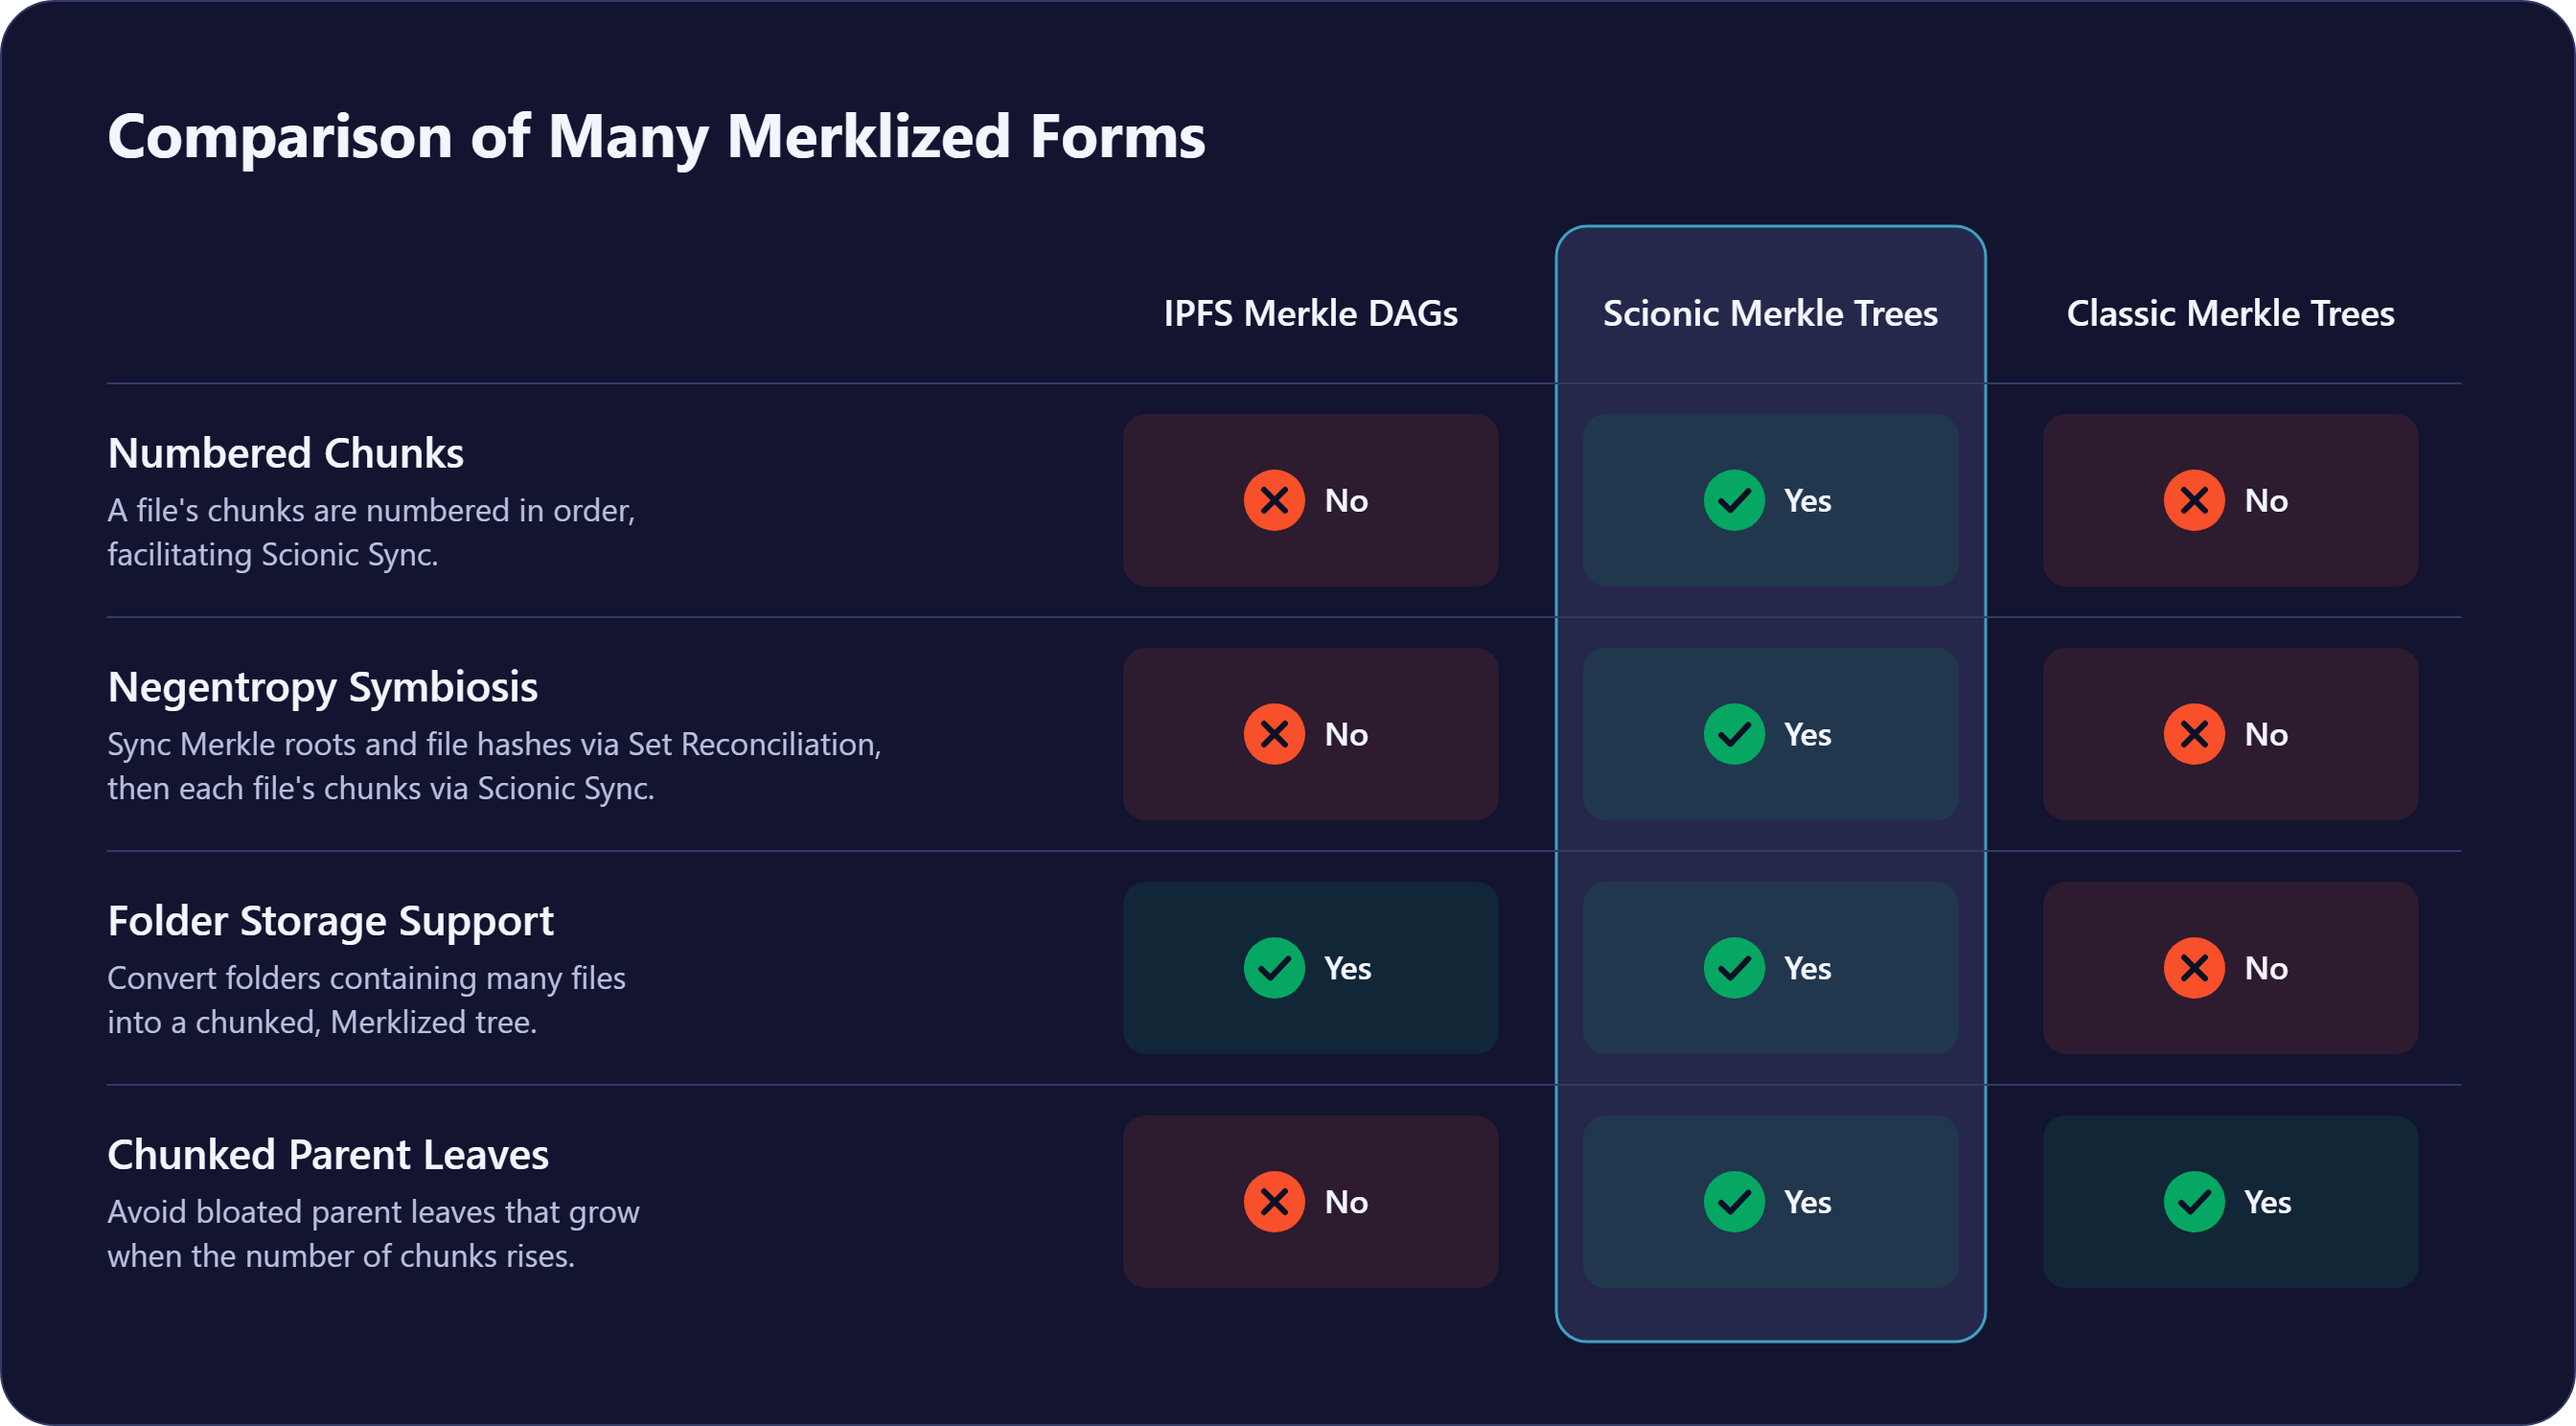
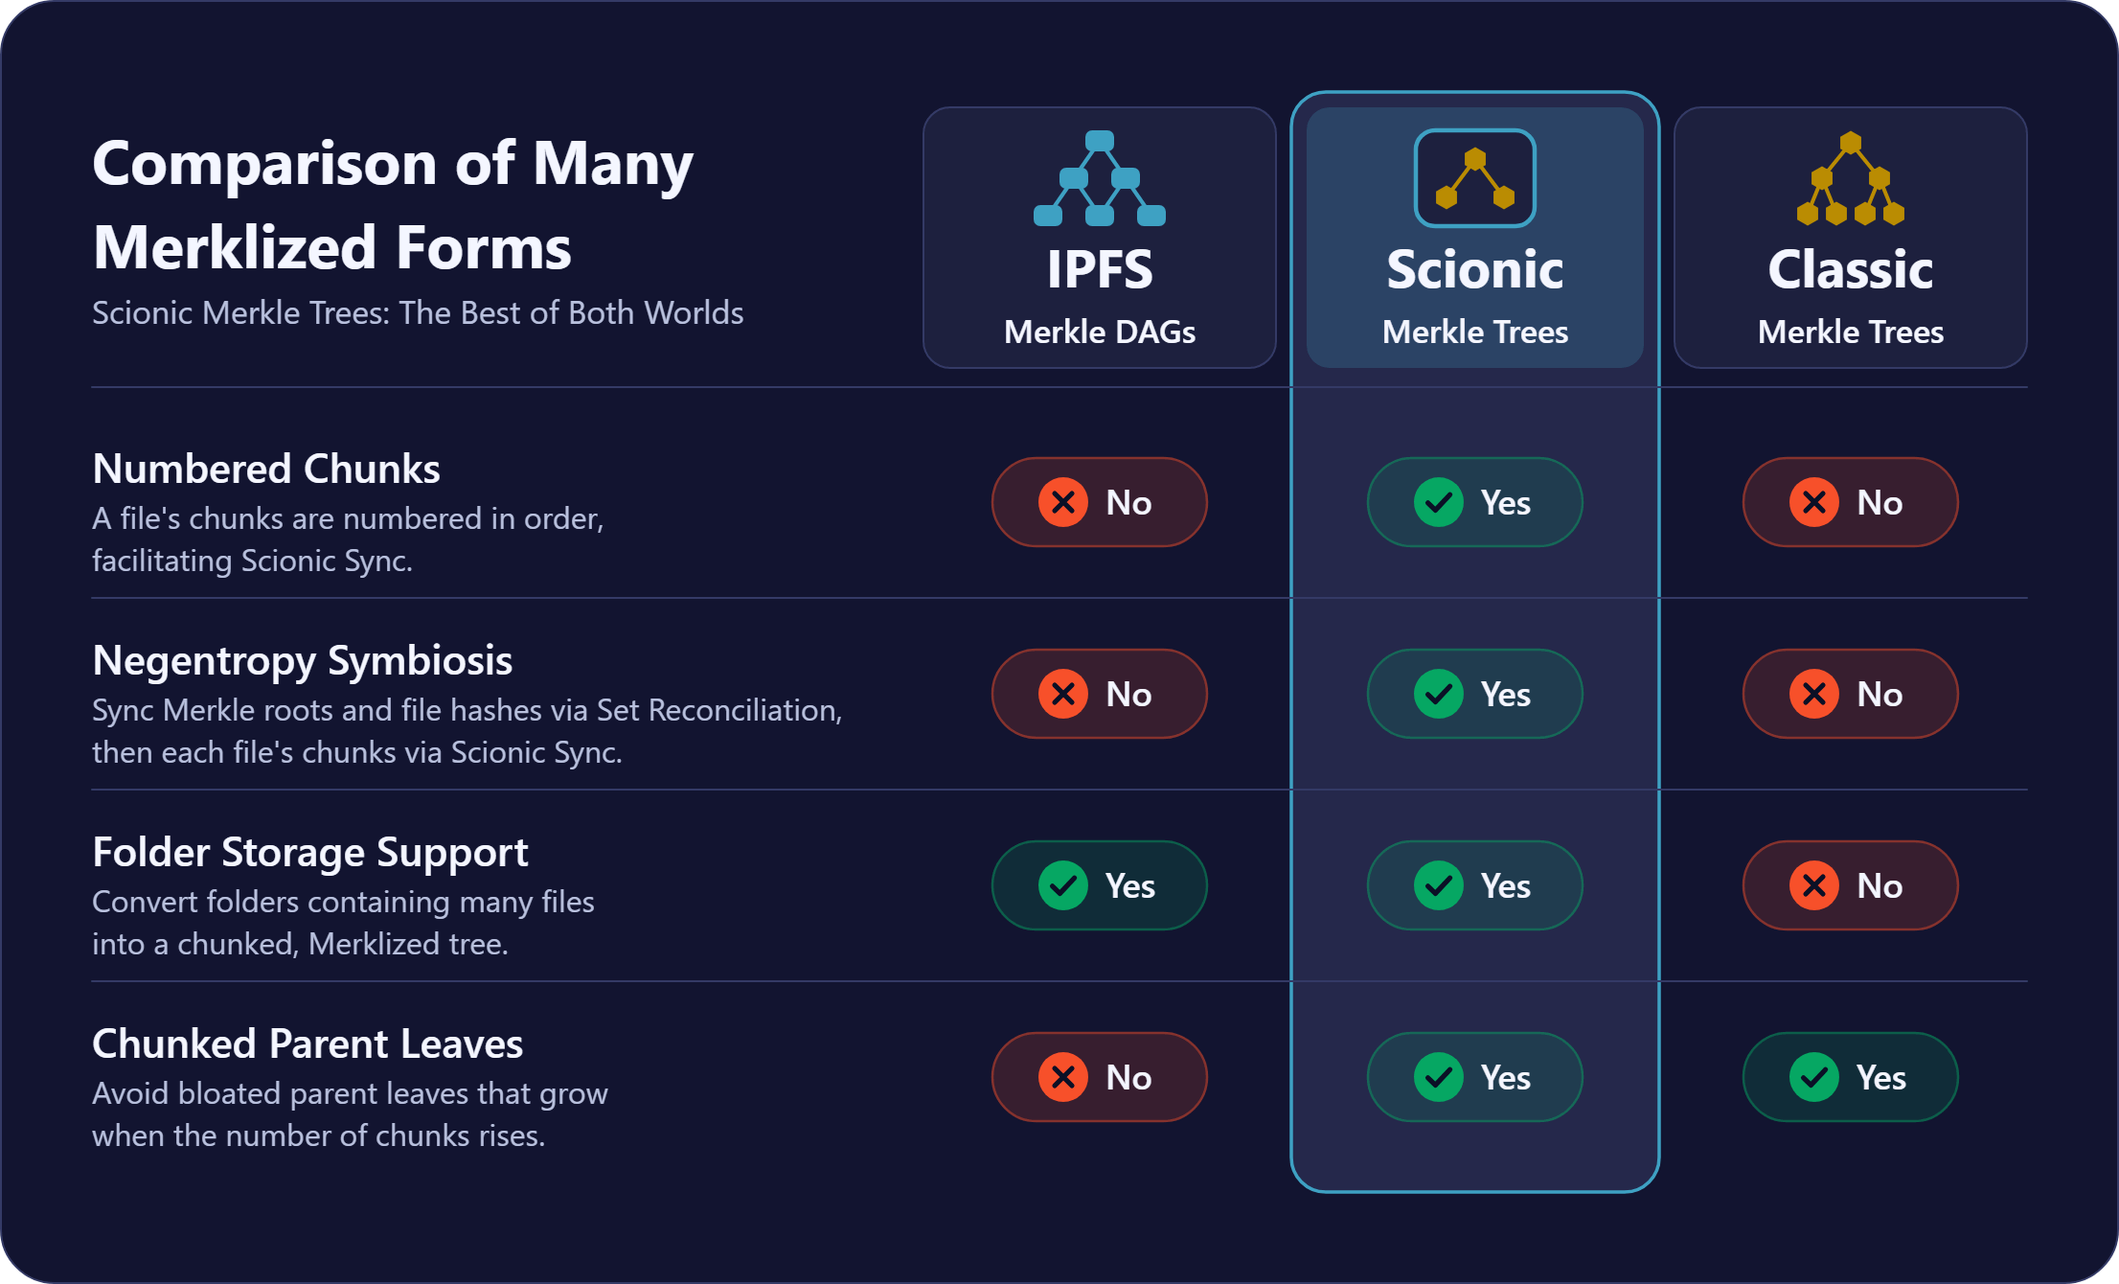
docs: the table says the names of the three forms large, and fills its picture
The names of the three forms were the smallest headings in the table, and
the table stood loose in a picture wider than it needed.

- The name of a form is the largest thing in its column. The word that
  tells it from the other two is written large, over the rest of its
  name: IPFS over Merkle DAGs, Scionic and Classic over Merkle Trees.
- Each form has a small picture of itself, in the colours of the two tree
  pictures: boxes that link to boxes, a Classic Merkle tree, and for a
  Scionic Merkle Tree a box with a Classic Merkle tree inside it.
- The title stands in the corner that a table leaves empty, beside the
  names of the forms, over the README's own words for the comparison:
  "Scionic Merkle Trees: The Best of Both Worlds".
- A mark is a badge that is no larger than what it says.
- The picture is 1,106 units wide where it was 1,344, so at the width of a
  page its text is a fifth larger, and the names of the forms nearly
  twice as large.

What the rows say, and which form has what, is as it was.

diff --git a/docs/pictures/README.md b/docs/pictures/README.md
@@ -38,9 +38,11 @@ Everything a picture says is at the top of `pictures.mjs` or in the function tha
 - **No list in these pictures has fewer than three items.** The tree over two items is a single fork, which does not look like a tree. So the program refuses a folder with fewer than three entries, and a file with fewer than three chunks. The format itself has smaller ones: a file of 512 KiB or less is a single chunk, and its tree is that one leaf.
 - **Every folder and file box has one height,** that of the deepest tree, so that the boxes of a row line up at the top and at the bottom. A folder's tab stands over that height. A tree of fewer levels is drawn as tall as the deepest: every Classic Merkle root stands at one height in its box, and so does every leaf.
 - **Each row stands in the middle of the picture.** Two boxes that belong together are 12 units apart, and two sets of them are 26 apart: the folders and the files of the second row, and the two folders' files in the bottom row.
-- **The two tree pictures are 1,424 units wide,** a little wider than the table, so that the bottom row holds six files with their chunks at a size that can be read, and with room between one chunk and the next. If the files are given more chunks than fit, the program refuses them, and says how much room they take and how much there is.
+- **The two tree pictures are 1,424 units wide,** wider than the table, so that the bottom row holds six files with their chunks at a size that can be read, and with room between one chunk and the next. If the files are given more chunks than fit, the program refuses them, and says how much room they take and how much there is.
 - **`PROVEN`** is the chunk that the branch picture proves, in the first file of the first folder. What is shown, what is sent beside it and what the receiver works out follow from it by the rule in [`spec/FORMAT.md`](../../spec/FORMAT.md), under "Showing a part".
-- **The rows of the table** are in `table()`.
+- **The rows of the table and its three forms** are in `table()`.
+- **The name of a form is the largest thing in its column.** The word that tells it from the other two is written large, over the rest of its name: `IPFS` over `Merkle DAGs`. Each form has a small picture of itself in the colours of the two tree pictures: boxes that link to boxes for a Merkle DAG, a Classic Merkle tree, and for a Scionic Merkle Tree a box with a Classic Merkle tree inside it.
+- **The table fills its picture.** Its title stands in the corner that a table leaves empty, beside the names of the forms. A mark is a badge that is no larger than what it says, and the picture is as wide as its columns and no wider, so that its text is large at the width of a page.
 
 ## The Colours
 
